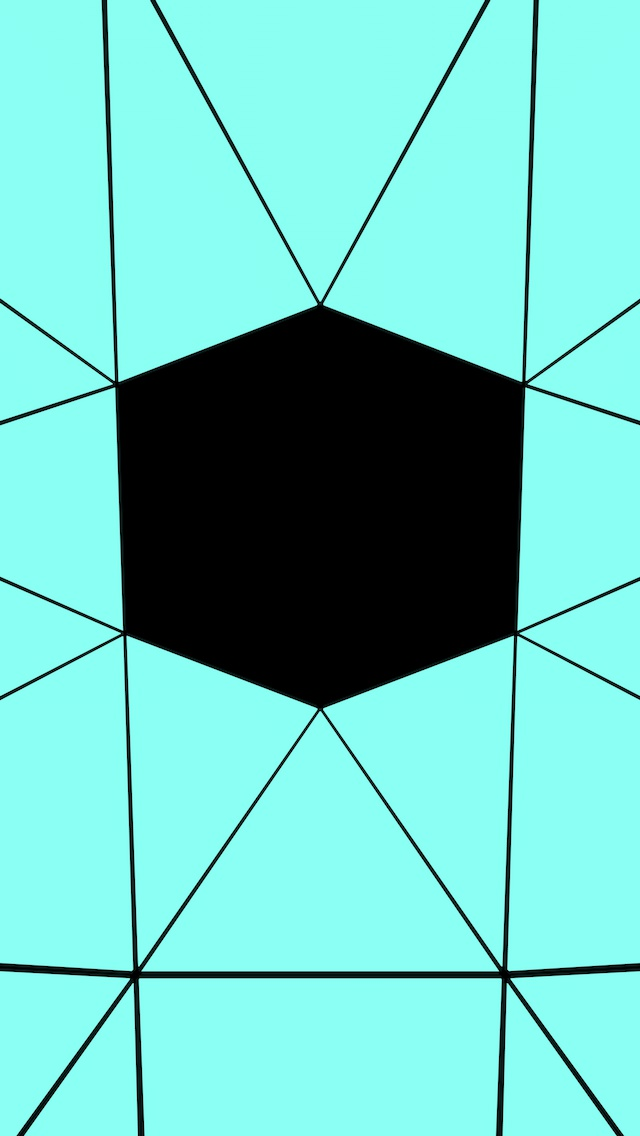
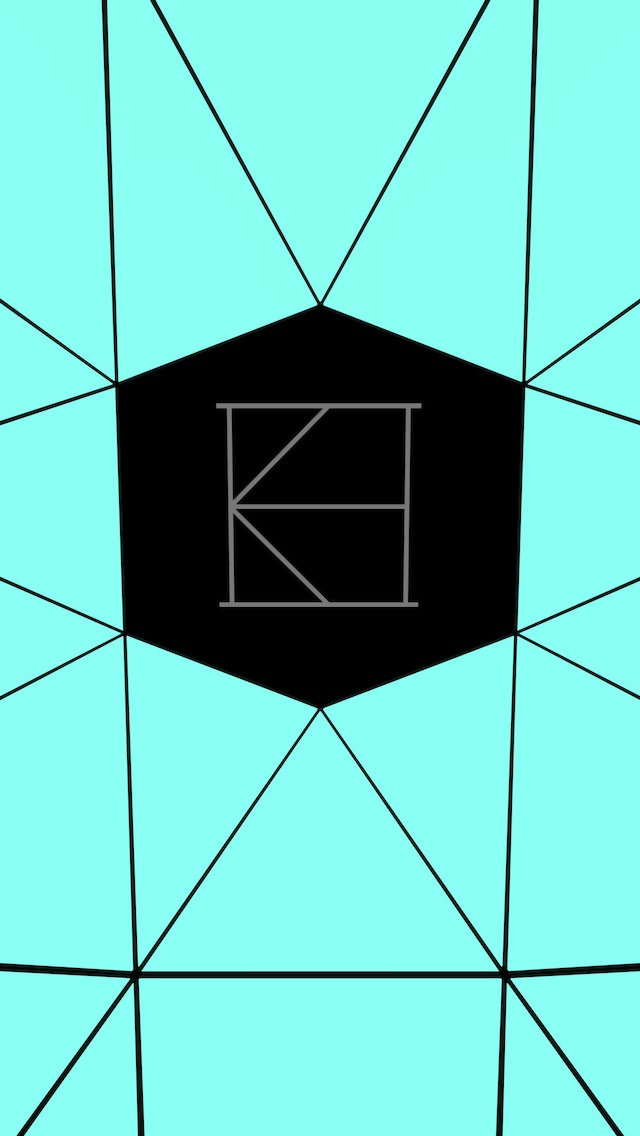
Found the easter eggs. Wow. Fixed a bug or two I introduced to Entente. The cyan eye is now a secret terminal, and the door to the apartment is now a secret door. Separated openDoor from openEnergyDoor.

Changed region(s): [[0.3438, 0.3389, 0.6562, 0.5546]]

diff --git a/html5/scripts/core/dozenal.js b/html5/scripts/core/dozenal.js
@@ -146,6 +146,8 @@ class Dozenal {
     }
 
     hiversaires.music.setAmbience(ambienceByZone.get(this.currentNode.zone));
+
+    console.log(this.userNodeID, this.userOrientation, this.currentSubject);
   }
 
   moveLeft() {
@@ -229,6 +231,38 @@ class Dozenal {
   openDoor() {
     this.setHidden(this.billboard("overlay"), false);
     this.setCurrentAction(this.walkThroughDoor);
+
+    if (this.puzzleState[this.currentPuzzle.id] == 1) {
+      this.templateUpdateNode(18, "0516", 2);
+      this.templateUpdateNode(18, "0529", 31);
+      this.templateUpdateNode(13, "0517", 2);
+      this.templateUpdateNode(55, "0539", 39);
+      this.templateUpdateNode(69, "0518", 18);
+      this.templateUpdateNode(39, "0519", 10);
+      this.templateUpdateNode(77, "0520", 27);
+      this.templateUpdateNode(84, "0527", 47);
+      this.templateUpdateNode(101, "0532", 38);
+      this.templateUpdateNode(113, "0551", 36);
+      this.templateUpdateNode(142, "0576", 54);
+      this.templateUpdateNode(143, "0577", 54);
+    } else {
+      this.templateUpdateNode(18, "0521", 2);
+      this.templateUpdateNode(18, "0530", 31);
+      this.templateUpdateNode(13, "0522", 2);
+      this.templateUpdateNode(55, "0540", 39);
+      this.templateUpdateNode(69, "0523", 18);
+      this.templateUpdateNode(39, "0524", 10);
+      this.templateUpdateNode(77, "0525", 27);
+      this.templateUpdateNode(84, "0526", 47);
+      this.templateUpdateNode(101, "0533", 38);
+      this.templateUpdateNode(113, "0552", 36);
+      this.templateUpdateNode(142, "0571", 54);
+      this.templateUpdateNode(143, "0573", 54);
+    }
+  }
+
+  openEnergyDoor() {
+    this.openDoor();
     this.templateEnergyUpdate();
   }
 
@@ -337,62 +371,88 @@ class Dozenal {
   actionTemplate() {
     this.actionReset();
 
-    if (this.currentPuzzle.type == PuzzleType.clockTerminal) {
-      this.templateClockTerminal();
+    switch (this.currentPuzzle.type) {
+      case PuzzleType.clockTerminal:
+        this.templateClockTerminal();
+        break;
+      case PuzzleType.sealTerminal:
+        this.templateSealTerminal();
+        break;
+      case PuzzleType.secretTerminal:
+        this.templateSecretTerminal();
+        break;
+      case PuzzleType.energyTerminal:
+        this.templateEnergyTerminal();
+        break;
+      case PuzzleType.sealDoor:
+        this.templateSealDoor();
+        break;
+      case PuzzleType.secretDoor:
+        this.templateSecretDoor();
+        break;
+      case PuzzleType.energyDoor:
+        this.templateEnergyDoor();
+        break;
+      case PuzzleType.clockDoor:
+        this.templateClockDoor();
+        break;
+      case PuzzleType.progressTerminal:
+        this.templateProgressTerminal();
+        break;
+      case PuzzleType.audioTerminal:
+        this.templateAudioTerminal();
+        break;
+      case PuzzleType.killTerminal:
+        this.templateKillTerminal();
+        break;
+      case PuzzleType.endgameDoor:
+        this.templateEndgameDoor();
+        break;
+      case PuzzleType.endgameCredit:
+        this.templateEndgameCredit();
+        break;
+      case PuzzleType.timeDoor:
+        this.templateTimeDoor();
+        break;
+      case PuzzleType.ententeTerminal:
+        this.templateEntenteTerminal();
+        break;
+      case PuzzleType.entente:
+        this.templateEntente();
+        break;
     }
-    if (this.currentPuzzle.type == PuzzleType.sealTerminal) {
-      this.templateSealTerminal();
-    }
-    if (this.currentPuzzle.type == PuzzleType.energyTerminal) {
-      this.templateEnergyTerminal();
-    }
-    if (this.currentPuzzle.type == PuzzleType.sealDoor) {
-      this.templateSealDoor();
-    }
-    if (this.currentPuzzle.type == PuzzleType.energyDoor) {
-      this.templateEnergyDoor();
-    }
-    if (this.currentPuzzle.type == PuzzleType.clockDoor) {
-      this.templateClockDoor();
-    }
-    if (this.currentPuzzle.type == PuzzleType.progressTerminal) {
-      this.templateProgressTerminal();
-    }
-    if (this.currentPuzzle.type == PuzzleType.audioTerminal) {
-      this.templateAudioTerminal();
-    }
-    if (this.currentPuzzle.type == PuzzleType.killTerminal) {
-      this.templateKillTerminal();
-    }
-    if (this.currentPuzzle.type == PuzzleType.endgameDoor) {
-      this.templateEndgameDoor();
-    }
-    if (this.currentPuzzle.type == PuzzleType.endgameCredit) {
-      this.templateEndgameCredit();
-    }
-    if (this.currentPuzzle.type == PuzzleType.timeDoor) {
-      this.templateTimeDoor();
-    }
+  }
 
-    if (this.currentPuzzle.id == 23) {
+  templateEntenteTerminal() {
+    if (this.currentPuzzle != null && this.currentPuzzle.id == 23) {
+      console.log("templateEntenteTerminal1");
       this.templateEntenteTerminal1();
     }
-    if (this.currentPuzzle.id == 24) {
+    if (this.currentPuzzle != null && this.currentPuzzle.id == 24) {
+      console.log("templateEntenteTerminal2");
       this.templateEntenteTerminal2();
     }
-    if (this.currentPuzzle.id == 43) {
+  }
+
+  templateEntente() {
+    if (this.currentPuzzle != null && this.currentPuzzle.id == 43) {
+      console.log("templateEntentePart1Incr");
       this.templateEntentePart1Incr();
     }
-    if (this.currentPuzzle.id == 42) {
+    if (this.currentPuzzle != null && this.currentPuzzle.id == 42) {
+      console.log("templateEntentePart1Decr");
       this.templateEntentePart1Decr();
     }
-    if (this.currentPuzzle.id == 45) {
+    if (this.currentPuzzle != null && this.currentPuzzle.id == 45) {
+      console.log("templateEntentePart2Incr");
       this.templateEntentePart2Incr();
     }
-    if (this.currentPuzzle.id == 44) {
+    if (this.currentPuzzle != null && this.currentPuzzle.id == 44) {
+      console.log("templateEntentePart2Decr");
       this.templateEntentePart2Decr();
     }
-    if (this.currentPuzzle.id == 46) {
+    if (this.currentPuzzle != null && this.currentPuzzle.id == 46) {
+      console.log("templateEntentePart2Exit");
       this.templateEntentePart2Exit();
     }
   }
@@ -602,7 +662,7 @@ class Dozenal {
 
     this.setHidden(this.billboard("overlay"), false);
 
-    this.setCurrentAction(this.openDoor);
+    this.setCurrentAction(this.openEnergyDoor);
 
     this.isFuseAction = true;
 
@@ -628,7 +688,7 @@ class Dozenal {
     this.templateEnergyInterface();
 
     if (this.checkConditions(this.currentPuzzle.info.conditions)) {
-      this.setCurrentAction(this.openDoor);
+      this.setCurrentAction(this.openEnergyDoor);
       let modifier = "open";
       let secret = this.currentPuzzle.info.secret;
       if (secret != null && this.checkConditions(secret.conditions)) {
@@ -637,6 +697,19 @@ class Dozenal {
       this.setModifier(modifier);
     } else {
       this.templateEnergyAlert();
+    }
+  }
+
+  templateSecretDoor() {
+    this.templateVignette();
+    this.setHidden(this.billboard("overlay"), true);
+    hiversaires.music.playEffect("action_DoorInit");
+
+    if (this.checkConditions(this.currentPuzzle.info.conditions)) {
+      this.setCurrentAction(this.walkThroughDoor);
+      // let modifier = "open";
+      // this.setModifier(modifier);
+      // TODO: open state for secret door
     }
   }
 
@@ -686,44 +759,8 @@ class Dozenal {
           this.templateEnergyAlert();
         }
 
-        this.templateEnergyUpdate();
+        this.openEnergyDoor();
       });
-    }
-
-    if (this.puzzleState[this.currentPuzzle.id] == 1) {
-      this.templateUpdateNode(18, "0516", 2);
-      this.templateUpdateNode(18, "0529", 31);
-      this.templateUpdateNode(13, "0517", 2);
-      this.templateUpdateNode(34, "0537", 37);
-      this.templateUpdateNode(55, "0539", 39);
-      this.templateUpdateNode(69, "0518", 18);
-      this.templateUpdateNode(39, "0519", 10);
-      this.templateUpdateNode(77, "0520", 27);
-      this.templateUpdateNode(84, "0527", 47);
-      this.templateUpdateNode(101, "0532", 38);
-      this.templateUpdateNode(113, "0551", 36);
-      this.templateUpdateNode(142, "0576", 54);
-      this.templateUpdateNode(143, "0577", 54);
-    } else {
-      this.templateUpdateNode(18, "0521", 2);
-      this.templateUpdateNode(18, "0530", 31);
-      this.templateUpdateNode(13, "0522", 2);
-      this.templateUpdateNode(34, "0538", 37);
-      this.templateUpdateNode(55, "0540", 39);
-      this.templateUpdateNode(69, "0523", 18);
-      this.templateUpdateNode(39, "0524", 10);
-      this.templateUpdateNode(77, "0525", 27);
-      this.templateUpdateNode(84, "0526", 47);
-      this.templateUpdateNode(101, "0533", 38);
-      this.templateUpdateNode(113, "0552", 36);
-      this.templateUpdateNode(142, "0571", 54);
-      this.templateUpdateNode(143, "0573", 54);
-    }
-
-    // Extras
-
-    if (this.currentPuzzle.id == 37) {
-      this.puzzleState[37] = 1;
     }
   }
 
@@ -764,6 +801,26 @@ class Dozenal {
     } else {
       this.hideModifier(0.3, 0);
       hiversaires.music.volume = 0;
+    }
+  }
+
+  templateSecretTerminal() {
+    this.templateVignette();
+    this.setCurrentAction(function() {
+      this.puzzleState[this.currentPuzzle.id] =
+        (this.puzzleState[this.currentPuzzle.id] + 1) % 2;
+      this.templateSecretUpdate();
+    });
+
+    this.templateSecretUpdate();
+  }
+
+  templateSecretUpdate() {
+    if (this.puzzleState[this.currentPuzzle.id] == 1) {
+      this.setModifier("on");
+      this.showModifier(0.3, 0.1);
+    } else {
+      this.hideModifier(0.3, 0);
     }
   }
 
@@ -1197,6 +1254,7 @@ class Dozenal {
     this.setHidden(this.billboard("interfaceSeal1"), true);
     this.setHidden(this.billboard("interfaceSeal2"), true);
     this.setHidden(this.billboard("interfaceFuse1"), true);
+    this.setHidden(this.billboard("interfaceSave"), true);
 
     this.fadeOut(this.billboard("menuBlack"), 2.0, 0);
     this.fadeOut(this.billboard("menuLogo"), 2.0, 3);

diff --git a/html5/scripts/core/data.js b/html5/scripts/core/data.js
@@ -226,22 +226,24 @@ const nodesByID = (function() {
 
 const PuzzleType = new Map();
 setEnumValues(PuzzleType, [
-  "clockTerminal",
-  "energyTerminal",
-  "energyDoor",
-  "sealTerminal",
-  "sealDoor",
-  "clockDoor",
-  "killTerminal",
-  "progressTerminal",
-  "illusion",
-  "ententeTerminal",
   "audioTerminal",
-  "endgameDoor",
+  "clockDoor",
+  "clockTerminal",
   "endgameCredit",
+  "endgameDoor",
+  "energyDoor",
+  "energyTerminal",
   "entente",
-  "timeDoor",
-  "netherDoor"
+  "ententeTerminal",
+  "illusion",
+  "killTerminal",
+  "netherDoor",
+  "progressTerminal",
+  "sealDoor",
+  "sealTerminal",
+  "secretDoor",
+  "secretTerminal",
+  "timeDoor"
 ]);
 
 class Puzzle {
@@ -272,7 +274,7 @@ const puzzlesByID = (function() {
   });
   addPuzzle(4, PuzzleType.sealTerminal, { seal: Zone.forest });
   addPuzzle(5, PuzzleType.sealDoor, {});
-  addPuzzle(6, PuzzleType.energyDoor, {
+  addPuzzle(6, PuzzleType.secretDoor, {
     conditions: [{ puzzleID: 37, type: ConditionType.isGreaterThan, value: 0 }]
   });
   addPuzzle(7, PuzzleType.clockDoor, {
@@ -339,7 +341,7 @@ const puzzlesByID = (function() {
   addPuzzle(34, PuzzleType.audioTerminal, {}, 1);
   addPuzzle(35, PuzzleType.audioTerminal, {}, 1);
   addPuzzle(36, PuzzleType.energyTerminal, {});
-  addPuzzle(37, PuzzleType.energyTerminal, {});
+  addPuzzle(37, PuzzleType.secretTerminal, {});
   addPuzzle(38, PuzzleType.energyTerminal, {}, 1); // Entente Fuse
   addPuzzle(39, PuzzleType.energyTerminal, {}, 1);
   addPuzzle(40, PuzzleType.endgameDoor, {
